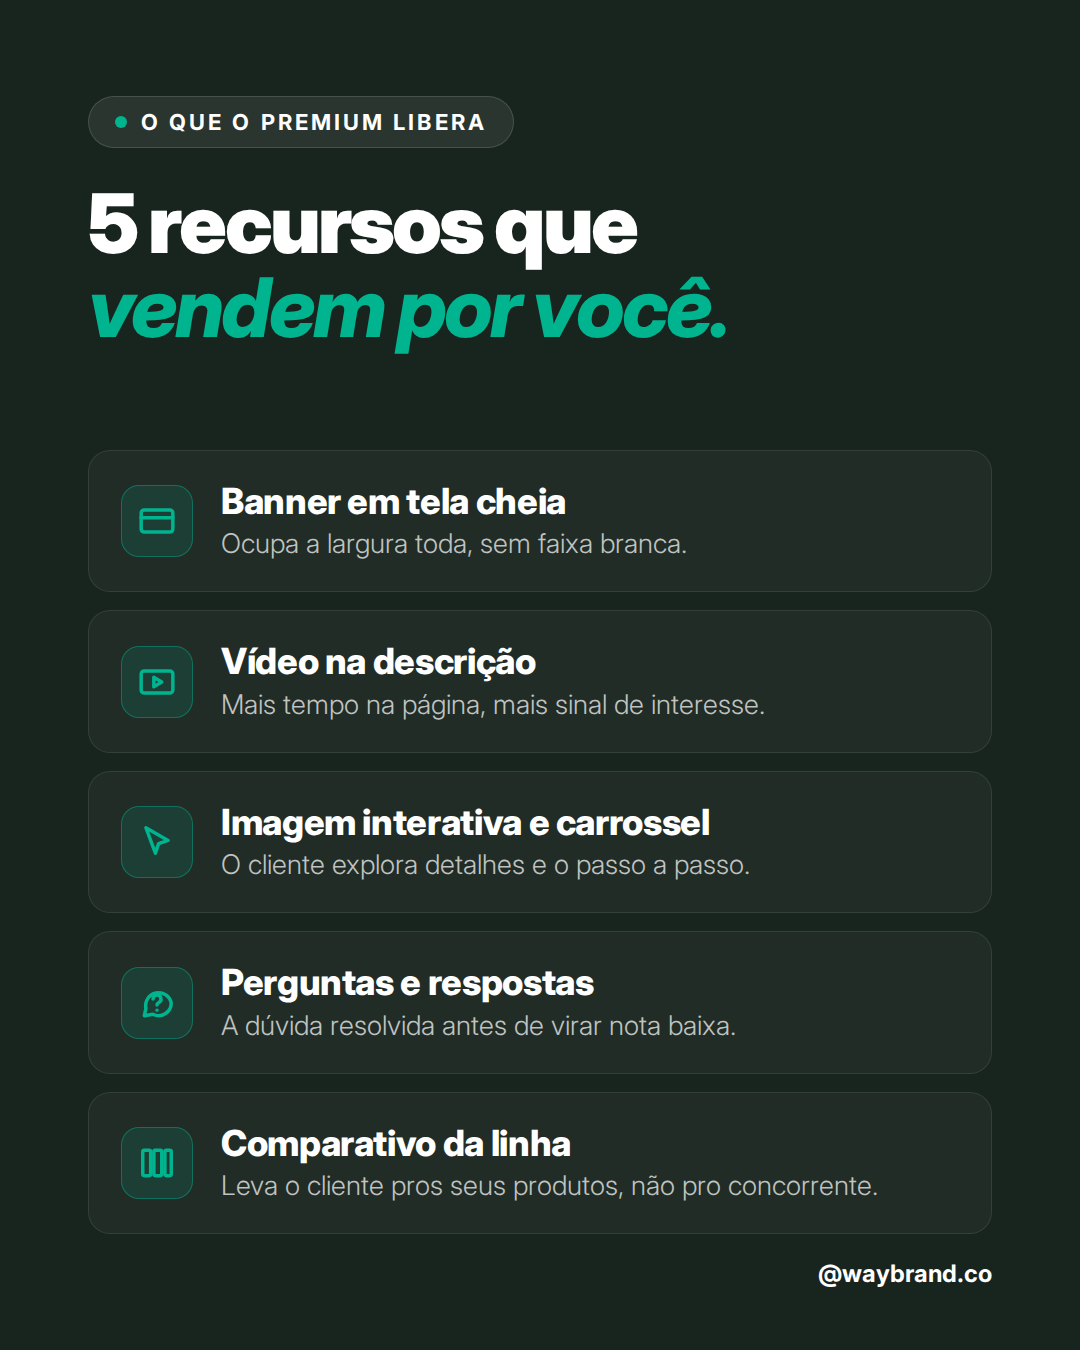
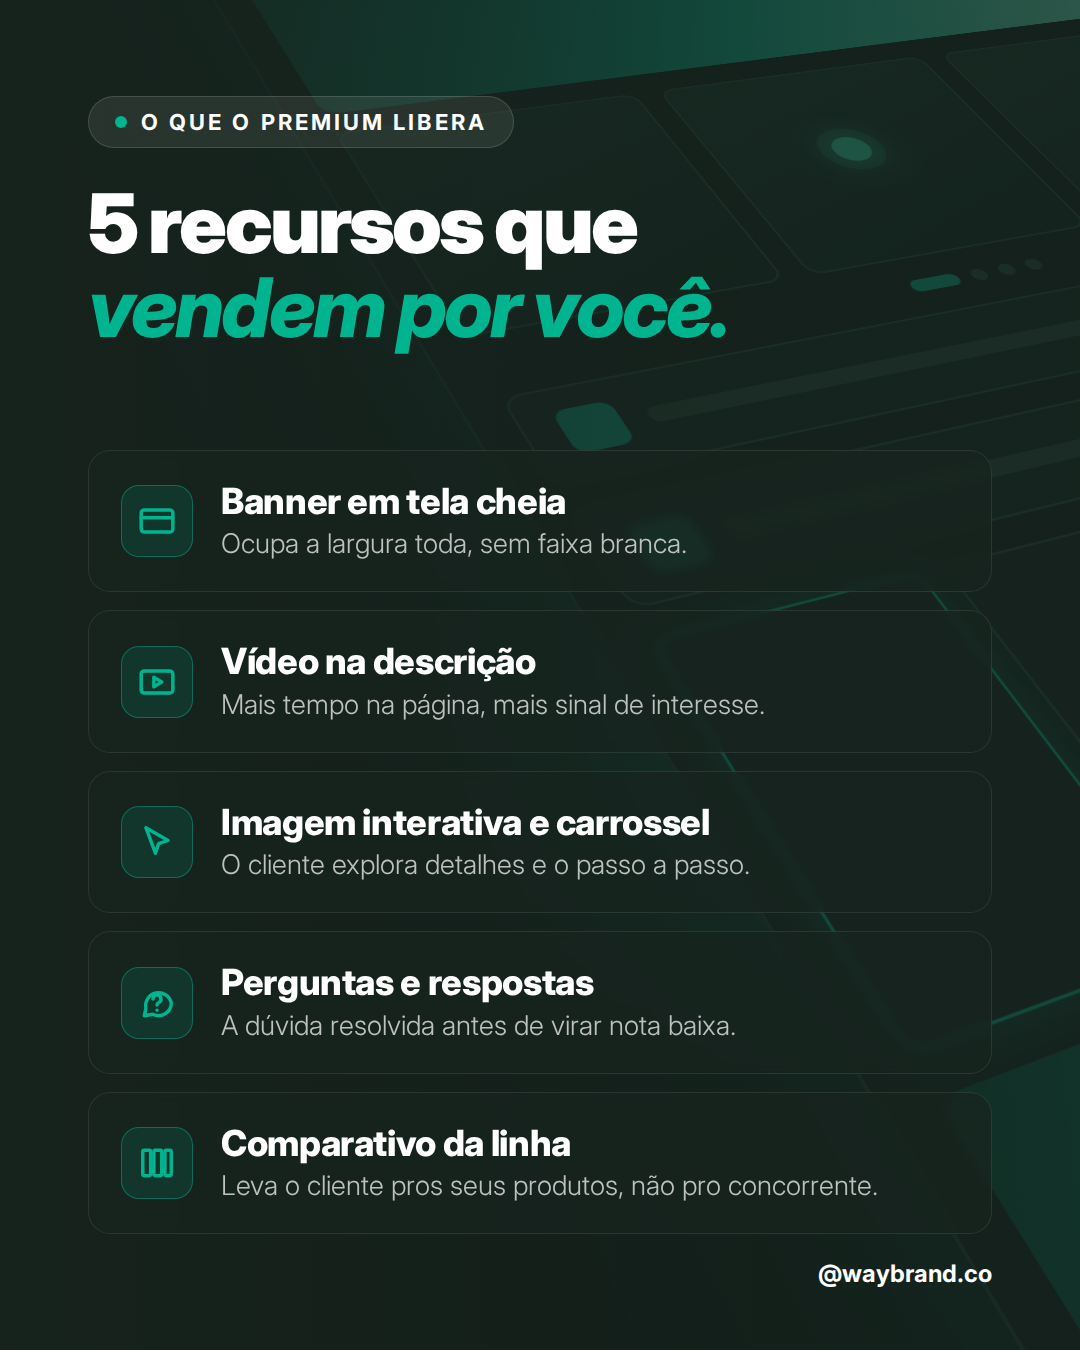
C04 slide 4: fundo com página A+ em perspectiva, baixa opacidade
Claude-Session: https://claude.ai/code/session_01AheN544mCiruarsAxNti7D

diff --git a/instagram/c04-a-plus-premium/fundos/slide4-fundo.html b/instagram/c04-a-plus-premium/fundos/slide4-fundo.html
@@ -1,0 +1,23 @@
+<!doctype html><html><head><meta charset="utf-8"><style>
+*{margin:0;padding:0;box-sizing:border-box}
+body{width:1080px;height:1350px;overflow:hidden;background:#07100e}
+.stage{position:absolute;inset:-200px;perspective:1800px}
+.page{position:absolute;left:330px;top:40px;width:900px;transform:rotateX(38deg) rotateZ(-24deg) rotateY(8deg);transform-origin:50% 0;display:flex;flex-direction:column;gap:26px;padding:30px;border-radius:30px;background:#0d1a17;border:2px solid #1d3a33;box-shadow:0 0 200px rgba(0,180,144,.25)}
+.b{border-radius:16px;position:relative;overflow:hidden}
+.hero{height:380px;background:linear-gradient(120deg,#004d3e,#00B490 55%,#7df0cf)}
+.hero:after{content:"";position:absolute;left:50%;top:50%;width:130px;height:130px;margin:-65px;border-radius:50%;box-shadow:inset 0 0 0 6px rgba(255,255,255,.9);background:rgba(0,0,0,.25)}
+.hero:before{content:"";position:absolute;left:calc(50% - 16px);top:calc(50% - 30px);border-left:52px solid #fff;border-top:30px solid transparent;border-bottom:30px solid transparent;z-index:1}
+.row{display:grid;grid-template-columns:repeat(3,1fr);gap:22px;height:260px}
+.row i{border-radius:14px;background:linear-gradient(160deg,#14332c,#0c1f1b);border:2px solid #1f4a3f;position:relative}
+.row i:nth-child(2):after{content:"";position:absolute;left:40%;top:38%;width:34px;height:34px;border-radius:50%;background:#2FE0B0;box-shadow:0 0 0 12px rgba(47,224,176,.2),0 0 40px #2FE0B0}
+.dots{display:flex;gap:12px;justify-content:center}.dots i{width:14px;height:14px;border-radius:50%;background:#1f4a3f}.dots i:first-child{width:44px;border-radius:7px;background:#00B490}
+.qa{height:90px;background:#10231f;border:2px solid #1f4a3f;display:flex;align-items:center;gap:20px;padding:0 26px}
+.qa b{width:44px;height:44px;border-radius:10px;background:#00B490;flex:none}.qa span{height:16px;border-radius:8px;background:#24433c;flex:1}
+.cmp{display:grid;grid-template-columns:repeat(4,1fr);gap:18px;height:300px}
+.cmp i{border-radius:14px;background:#0f201c;border:2px solid #1f4a3f}.cmp i:first-child{border-color:#00B490;box-shadow:0 0 40px rgba(0,180,144,.4)}
+.glow{position:absolute;left:30%;top:20%;width:900px;height:900px;background:radial-gradient(circle,rgba(0,180,144,.25),transparent 60%)}
+</style></head><body><div class="glow"></div><div class="stage"><div class="page">
+<div class="b hero"></div><div class="row"><i></i><i></i><i></i></div><div class="dots"><i></i><i></i><i></i><i></i></div>
+<div class="b qa"><b></b><span></span></div><div class="b qa"><b></b><span style="flex:.7"></span></div>
+<div class="cmp"><i></i><i></i><i></i><i></i></div><div class="b hero" style="height:300px"></div>
+</div></div></body></html>

diff --git a/instagram/c04-a-plus-premium/index.html b/instagram/c04-a-plus-premium/index.html
@@ -133,6 +133,11 @@
   .checks .chip{background:#EEF2F1;color:#000;font-weight:600}
 
   /* ---------- 04 módulos ---------- */
+  /* slide 4: página A+ em perspectiva, com pouca opacidade */
+  .s4bg:before{content:"";position:absolute;inset:0;background:url(assets/slide4-fundo.png) center/cover;opacity:.32}
+  .s4bg:after{content:"";position:absolute;inset:0;background:linear-gradient(90deg,rgba(24,36,30,.75) 0%,rgba(24,36,30,.2) 70%)}
+  .s4bg .mlist,.s4bg .handle{z-index:2}
+  .s4bg .m{background:rgba(24,36,30,.72);backdrop-filter:blur(4px)}
   .mlist{position:absolute;left:88px;right:88px;top:450px;display:flex;flex-direction:column;gap:18px}
   .m{display:flex;align-items:center;gap:28px;padding:30px 32px;border-radius:22px;background:rgba(255,255,255,.04);border:1.5px solid rgba(255,255,255,.09)}
   .m .ic{flex:none;width:72px;height:72px;border-radius:18px;background:rgba(0,180,144,.14);border:1.5px solid rgba(0,180,144,.45);display:grid;place-items:center}
@@ -221,7 +226,7 @@
 </section>
 
 <!-- 04 · O QUE LIBERA — escuro -->
-<section class="slide dark2" id="s4"><div class="pad">
+<section class="slide dark2 s4bg" id="s4"><div class="pad" style="z-index:2">
   <span class="pill ondark">O que o Premium libera</span>
   <h2>5 recursos que<br><em>vendem por você.</em></h2>
   </div>
